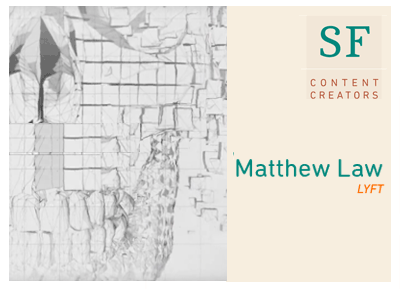
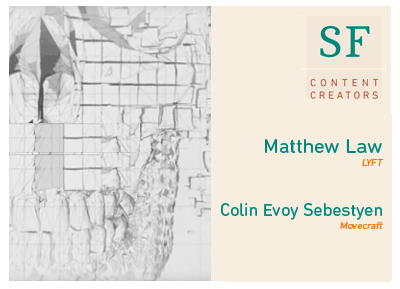
Update with new speakers for June Meeting

Changed region(s): [[0.51, 0.0, 0.99, 0.6851], [0.51, 0.654, 0.96, 0.8097], [0.51, 0.9343, 0.57, 0.9965]]

diff --git a/index.html b/index.html
@@ -403,6 +403,11 @@
                         <img src="img/logos/Red-Giant-Logo.jpg" class="img-responsive img-centered" alt="">
                     </a>
                 </div>
+                <div class="col-sm-2">
+                    <a href="https://www.aescripts.com">
+                        <img src="img/logos/aescripts.jpg" class="img-responsive img-centered" alt="">
+                    </a>
+                </div>
             </div>
         </div>
     </aside>
@@ -694,13 +699,21 @@ Also join us in raffling off some fabulous prizes from our sponsors. Beer and fo
                                  <img class="img-responsive img-centered" src="img/portfolio/event_3_hero.jpg" alt="">
                                 <!-- Project Details Go Here -->
                                 <h2>GYST (Get Your Sh*t Together)</h2>
-                                <p class="item-intro text-muted">We all want more time. Well, with new SF Content Creators host Mathew Law, we'll learn all about workflow with the Script of the Month Segment. And as a bonus, we will raffle off the scripts he mentions courtesy of <a href ="http://aescripts.com">aescripts + aeplugins</a>! With beer and food sponsored by <a href = "http://www.digitalanarchy.com">Digital Anarchy</a>!</p><p>
-                                <button type="button" class="btn btn-primary"><a href ="http://meetu.ps/e/CMCYY/zY4j6/f" style ="color:#fff">RSVP NOW</a></button></p>
+                                <p class="item-intro text-muted">We all want more time. Well, with new SF Content Creators host Matthew Law, we'll learn all about workflow with the Script of the Month Segment. And as a bonus, we will raffle off the scripts he mentions courtesy of <a href ="http://aescripts.com">aescripts + aeplugins</a>!
+                                <p>
+                                Also, regular host Colin Sebestyen will provide an accessible, non-technical primer to getting started with authoring your own scripts/expressions.
+                                </p>
+                                <p>
+                                Finally, regular host Matt Silverman will show a use-case of a nasty bug in AE and give away a script Swordfish made to fix it.
+                                </p>
+
+                                 With beer and food sponsored by <a href = "http://www.digitalanarchy.com">Digital Anarchy</a>!</p><p>
+                                <button type="button" class="btn btn-primary"><a href ="http://meetu.ps/39YycQ" style ="color:#fff">RSVP NOW</a></button></p>
                               
           <p>
-          <img class="img-responsive img-centered" src="img/portfolio/MATTHEWLAW.jpg" alt="">
-                <h4>Matthew Law</h3><p> <a href ="http://cargocollective.com/MatthewLaw/About">Portfolio</a> </p><p>
 
+                <h4>Matthew Law</h3><p> <a href ="http://cargocollective.com/MatthewLaw/About">Portfolio </p><p>
+          <img class="img-responsive img-centered" src="img/portfolio/MATTHEWLAW.jpg" alt=""></a></p><p>
                I'm a Bay Area native with a passion for moving imagery and a knack for technical learning. I graduated from Ex'pression College for Digital Art (Class 32) in May of 2005, just two week after starting as an associate designer for AKQA San Francisco. Over the next 7 years I grew from "that kid in the basement who knows After Effects" to the de facto technical advisor for all in house video production, animation, and visual effects jobs.
 </p><p>
 I spent the next 3 and a half years as a freelancer servicing companies large and small, both inside and outside the Bay Area, doing everything from feature film graphics and compositing to animated UI prototyping to event graphics. I'm currently working as Senior Motion Designer on the brand team at <a href = "https://www.lyft.com">Lyft</a>.
